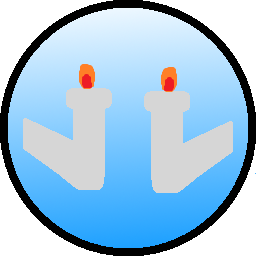
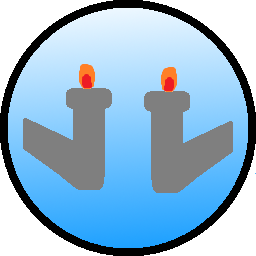
atrybuty walki dodane, grafika ztweakowana

Changed region(s): [[0.5625, 0.3438, 0.9375, 0.7812], [0.0625, 0.3438, 0.4375, 0.75]]

diff --git a/akcje.py b/akcje.py
@@ -58,6 +58,8 @@ def Metropolizacja(plansza, kto):
         kto.philosophers-=4
 
 def bitwaMorska(plansza, x, y, kto, ile):
+    plansza.attackerPower = ile
+    plansza.defenderPower = plansza.pola[x][y].strength
     kto.send_move(-1, f"atakujesz {x}, {y}")
     other=plansza.pola[x][y].owner
     other.send_move(-1, f"atakujom cie {x}, {y}")
@@ -120,6 +122,8 @@ def bitwaMorska(plansza, x, y, kto, ile):
             bitwaMorska(plansza, x, y, kto, ile)
 
 def bitwaWyspowa(plansza, x, y, kto, ile):
+    plansza.attackerPower = ile
+    plansza.defenderPower = plansza.pola[x][y].strength
     other=plansza.pola[x][y].owner
     sila=plansza.pola[x][y].strength
     if plansza.pola[x][y].isMetropolis:
@@ -223,7 +227,14 @@ class Ares:
             self.plansza.changeOwnership(x1, y1, kto)
             self.plansza.pola[x1][y1].strength+=ile
         else:
+            self.plansza.isFight = True
+            self.plansza.whereFight = (x1, y1)
+            self.plansza.pola[x][y].fighting = True
+            self.plansza.pola[x1][y1].fighting = True
             bitwaWyspowa(self.plansza, x1, y1, kto, ile)
+            self.plansza.pola[x][y].fighting = False
+            self.plansza.pola[x1][y1].fighting = False
+            self.plansza.isFight = False
 
 class Zeus:
     def __init__(self, plansza):
@@ -322,7 +333,14 @@ class Poseidon:
             self.plansza.pola[x1][y1].strength+=ile
         else:
             self.ileRuch=10
+            self.plansza.isFight = True
+            self.plansza.whereFight = (x1, y1)
+            self.plansza.pola[x][y].fighting = True
+            self.plansza.pola[x1][y1].fighting = True
             bitwaMorska(self.plansza, x1, y1, kto, ile)
+            self.plansza.pola[x][y].fighting = False
+            self.plansza.pola[x1][y1].fighting = False
+            self.plansza.isFight = False
     
 
 class Athena:

diff --git a/plansza.py b/plansza.py
@@ -21,6 +21,7 @@ class Water:
         self.owner=owner
         self.typ='water'
         self.strength=0
+        self.fighting = False
     def changeOwner(self, newOwner):
         self.owner.ownedTiles.remove((self.x, self.y))
         newOwner.ownedTiles.append((self.x, self.y))
@@ -49,6 +50,7 @@ class Capital:
         self.owner=owner
         self.isMetropolis=False
         self.buildings=[1]
+        self.fighting = False
         #budynki 0 - plains
         #budynki 1 - uni
         #budynki 2 - temple
@@ -77,6 +79,10 @@ class Plansza:
     def __init__(self, pusty):
         self.pola=[[]]
         self.pusty=pusty
+        self.isFight = False
+        self.whereFight = (0, 0)
+        self.attackerPower = 0
+        self.defenderPower = 0
     def generateBoard(self):
         for x in range(13):
             self.pola.append([])
@@ -212,7 +218,7 @@ class Plansza:
         if self.pola[x][y].owner==self.pusty:
             self.changeOwnership(x, y, kto)
         self.pola[x][y].strength+=1
-    def isBridge(self, x1, y1, kto, x2, y2):
+    def isBridge(self, x1, y1, kto, x2, y2, leaveTrail = False):
         if self.pola[x1][y1].typ!='capital' or self.pola[x2][y2].typ!='capital' or self.pola[x1][y1].owner!=kto:
             return False
         #kto.send_move(-1, "test")
